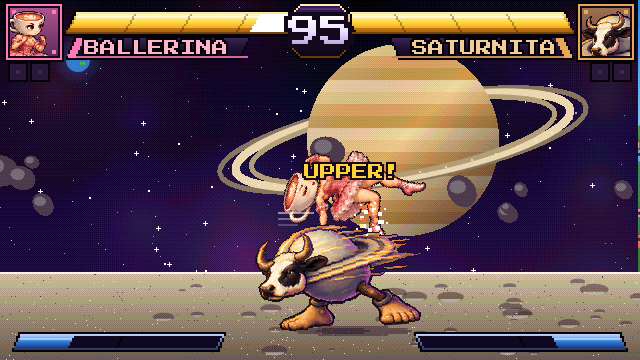
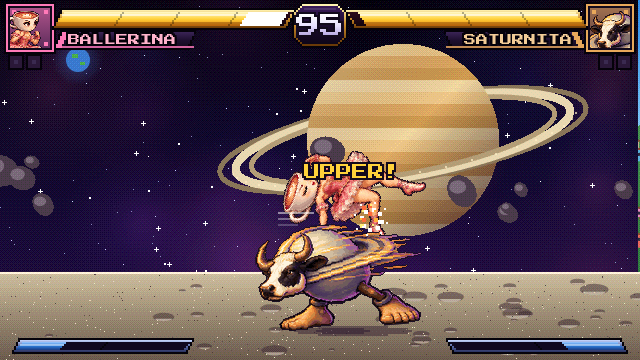
docs: controles de toque e tela cheia no celular; snapshots e arte atualizados
Snapshots mudaram só nos pixels do HUD; a vida final das 13 lutas é a
mesma.

Changed region(s): [[0.0, 0.0, 1.0, 0.2444], [0.625, 0.9167, 1.0, 1.0], [0.0, 0.9167, 0.375, 1.0]]

diff --git a/docs/jogo/03-controles-e-comandos.md b/docs/jogo/03-controles-e-comandos.md
@@ -16,7 +16,20 @@
 
 ## Toque (celular e tablet)
 
-Num aparelho com tela de toque, aparece um **D-pad** e os botões **SOCO**, **CHUTE**, **ESPECIAL** e **START**. No computador eles podem ser ativados pelo botão **TOQUE**, acima da tela. Tocar na tela do jogo também funciona como START nas telas de menu e de cutscene.
+Num aparelho com tela de toque aparecem os controles na tela. No computador eles podem ser ativados pelo botão **TOQUE**, acima da tela. Tocar na tela do jogo também funciona como START nas telas de menu e de cutscene.
+
+- **D-pad de 8 direções:** é uma área só, não quatro botões. Dá para deslizar o dedo entre as direções, então diagonais e comandos como ↓ ↘ → (EX) e → ↓ ↘ (uppercut) funcionam. Um "polegar" mostra para onde o dedo está apontando.
+- **Botões em arco de fliperama:** **SOCO** (vermelho), **CHUTE** (azul) e **ESP** (dourado), mais um **START** pequeno. Cada botão aceita um dedo próprio (multitoque). No Android, cada toque dá uma vibração curta.
+
+### Tela cheia no celular
+
+No celular aparece o botão **JOGAR EM TELA CHEIA** embaixo do jogo (o botão **TELA CHEIA** da barra faz o mesmo):
+
+- o jogo ocupa a tela inteira e **deita na horizontal**: onde o navegador permite (Android/Chrome), a orientação é travada em paisagem; onde não permite (iPhone), o jogo gira 90° sozinho se o aparelho estiver em pé;
+- os controles ficam **por cima do jogo**, semitransparentes: D-pad à esquerda, botões à direita;
+- no canto de cima ficam **✕ SAIR** e o botão de som.
+
+No computador, a tela cheia mostra só o jogo (os controles de toque aparecem se o botão **TOQUE** estiver ligado).
 
 ## Botões da página
 

diff --git a/README.md b/README.md
@@ -149,7 +149,7 @@ Fichas completas, falas e rivalidades em [docs/jogo/05-personagens.md](docs/jogo
 ### 🚗 Fases bônus e progressão
 - Destrua a **Macchina del Nonno**, o **Cybercaminhão** de "vidro blindado" e o **Bi-ai-di** (com papagaio do milk shake 🦜)
 - **XP e níveis 1–10** por personagem, salvos no navegador
-- Versus local, Treino com leitura de dano e controles de **toque** no celular
+- Versus local, Treino com leitura de dano e **modo celular**: tela cheia na horizontal com D-pad de 8 direções e botões sobre o jogo
 
   </td>
   </tr>
